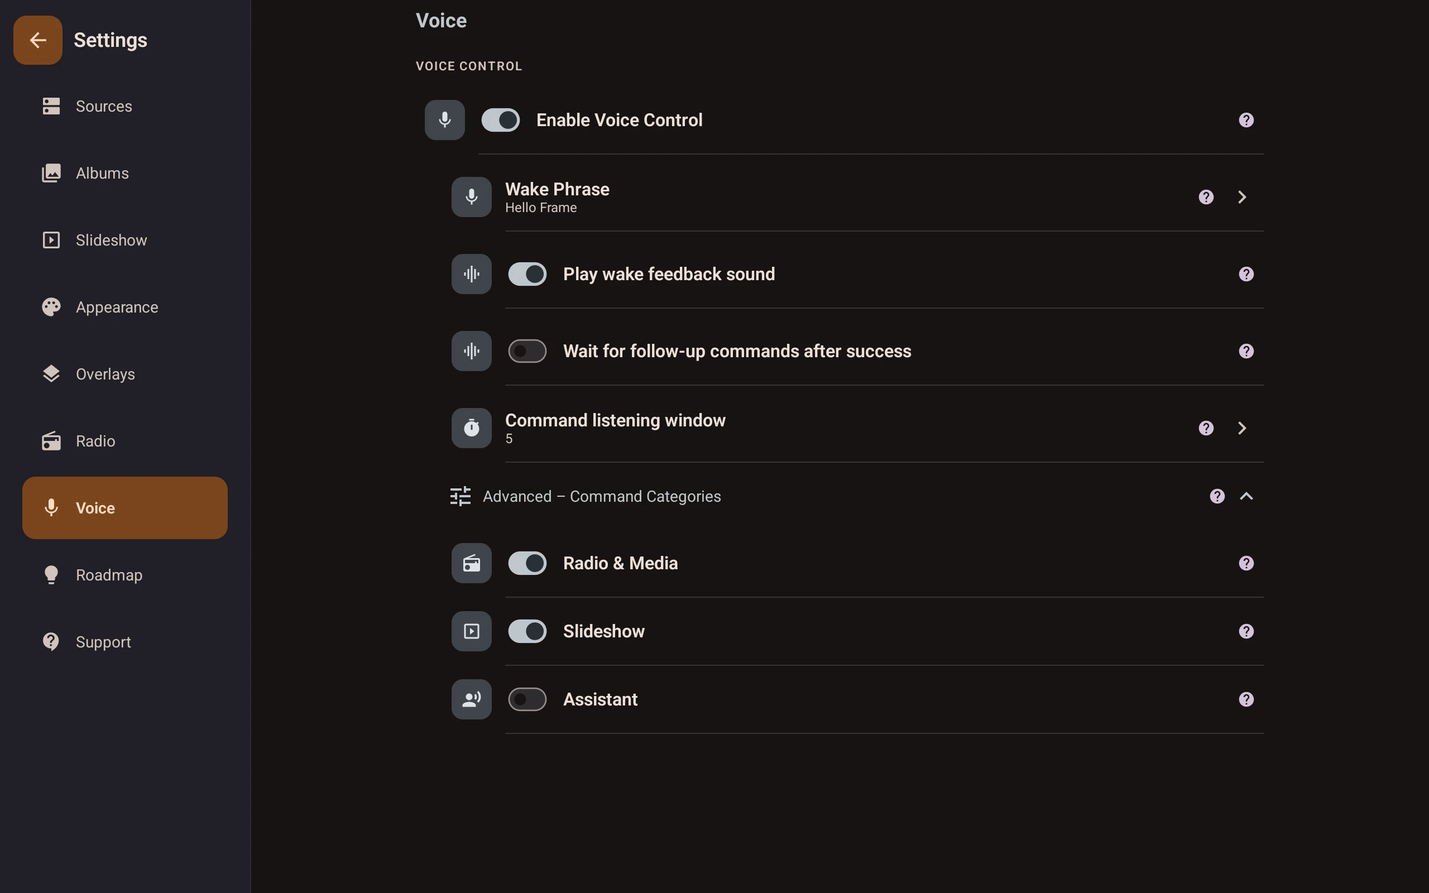
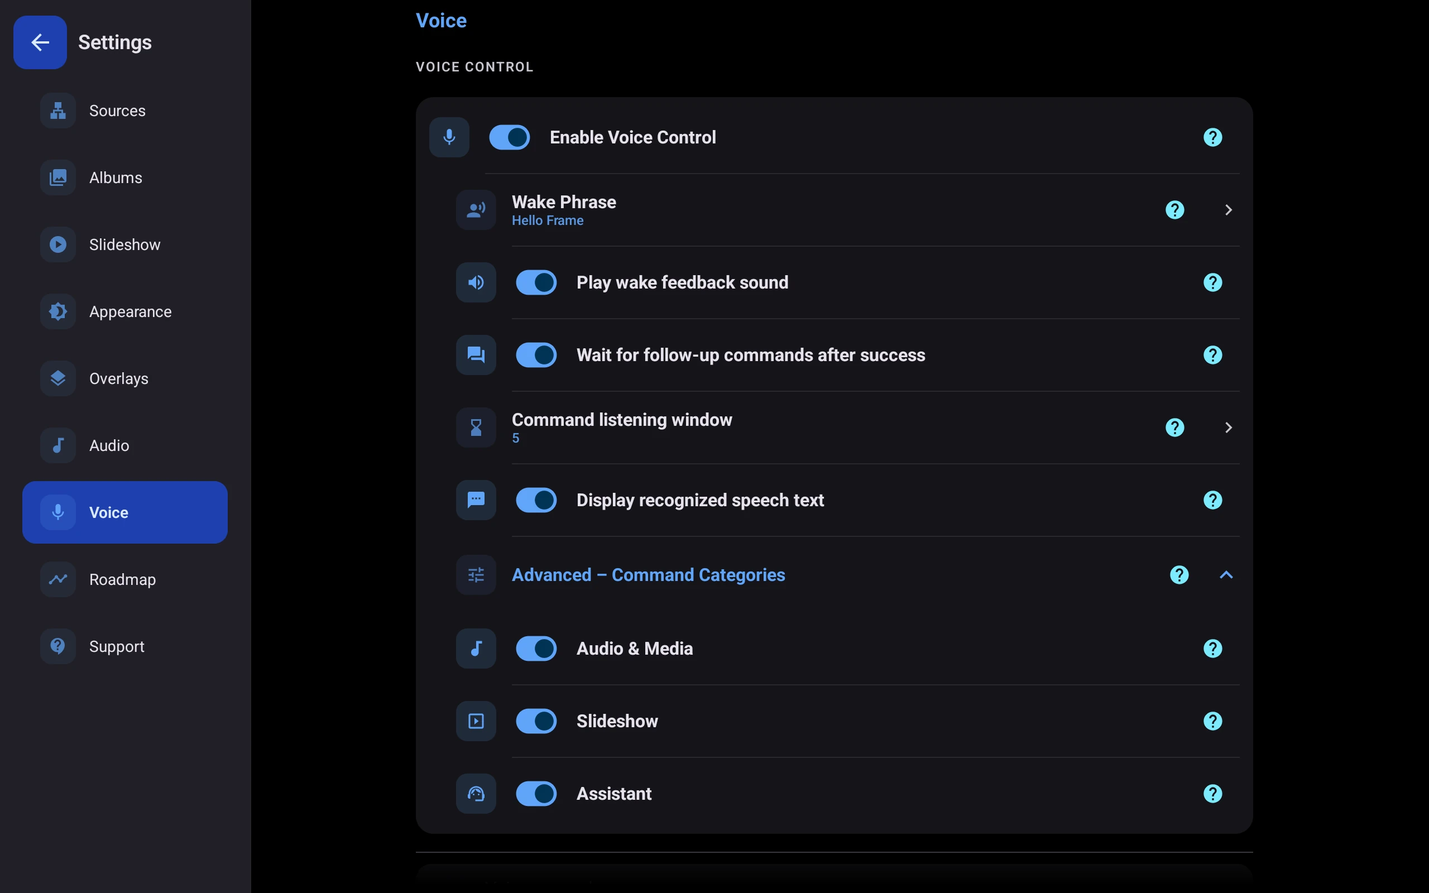
updated images set to match app interface

diff --git a/index.html b/index.html
@@ -2,7 +2,7 @@
 layout: default
 title: "Fravora: Digital Photo Frame App for Android — NAS, Cloud & Radio"
 description: "Smart Android digital photo frame with NAS/SMB, local, and cloud slideshows (Google Photos picked photos, OneDrive, Dropbox, Immich), radio, weather, and voice control. No subscription."
-og_image: "images/screen_frame1.webp"
+og_image: "images/screen_frame_autumn.webp"
 active_nav: "home"
 ---
 
@@ -46,7 +46,7 @@ active_nav: "home"
           "https://play.google.com/store/apps/details?id=com.aniujual.fravora",
           "https://www.amazon.com/dp/B0H45FCGX6"
         ],
-        "image": "https://fravora.app/images/screen_frame1.webp",
+        "image": "https://fravora.app/images/screen_frame_autumn.webp",
         "downloadUrl": "https://play.google.com/store/apps/details?id=com.aniujual.fravora",
         "installUrl": "https://play.google.com/store/apps/details?id=com.aniujual.fravora",
         "offers": {
@@ -231,7 +231,7 @@ active_nav: "home"
   </div>
   <figure class="hero-preview">
     <div class="hero-device">
-      <img src="images/screen_frame1-optimized.webp" alt="Fravora running as an Android photo frame with a Nara, Japan photo, weather, clock, and radio overlays" width="1100" height="687" fetchpriority="high" decoding="async" />
+      <img src="images/screen_frame_autumn.webp" alt="Fravora displaying a Japanese temple framed by red maple leaves with weather, radio, and clock overlays" width="2560" height="1600" fetchpriority="high" decoding="async" />
     </div>
     <figcaption>Photos, weather, and radio. One frame, fully yours.</figcaption>
   </figure>
@@ -349,7 +349,7 @@ active_nav: "home"
     <div class="tv-mockup-wrap">
       <div class="tv-frame">
         <div class="tv-screen">
-          <img id="frameImg" src="images/screen_frame1-optimized.webp" alt="Fravora photo frame showing Nara, Japan with weather, clock, and radio overlays" width="1100" height="687" loading="lazy" decoding="async" />
+          <img id="frameImg" src="images/screen_frame_autumn.webp" alt="Fravora showing a Japanese temple framed by red maple leaves with weather, radio, and clock overlays" width="2560" height="1600" loading="lazy" decoding="async" />
         </div>
       </div>
       <div class="tv-stand"></div>
@@ -389,76 +389,97 @@ active_nav: "home"
   <p class="section-label">Full control</p>
   <h2 class="section-title">Every detail, your way</h2>
 
-  <div class="screenshots-tabs" role="tablist" aria-label="Fravora settings tabs">
-    <button class="tab-btn active" data-tab="radio" role="tab" aria-label="Show radio settings" aria-selected="true">📻 Radio</button>
-    <button class="tab-btn" data-tab="overlays" role="tab" aria-label="Show overlay settings" aria-selected="false">🌤 Overlays</button>
-    <button class="tab-btn" data-tab="layout" role="tab" aria-label="Show overlay layout settings" aria-selected="false">🗂 Overlay Layout</button>
-    <button class="tab-btn" data-tab="slideshow" role="tab" aria-label="Show slideshow settings" aria-selected="false">🖼 Slideshow</button>
-    <button class="tab-btn" data-tab="voice" role="tab" aria-label="Show voice settings" aria-selected="false">🎙 Voice</button>
+  <div class="screenshots-tabs" role="tablist" aria-label="Fravora feature screenshots">
+    <button class="tab-btn active" data-tab="sources" role="tab" aria-label="Show source settings" aria-selected="true">Sources</button>
+    <button class="tab-btn" data-tab="slideshow" role="tab" aria-label="Show slideshow settings" aria-selected="false">Slideshow</button>
+    <button class="tab-btn" data-tab="appearance" role="tab" aria-label="Show appearance settings" aria-selected="false">Appearance</button>
+    <button class="tab-btn" data-tab="overlays" role="tab" aria-label="Show overlay settings" aria-selected="false">Overlays</button>
+    <button class="tab-btn" data-tab="audio" role="tab" aria-label="Show audio settings" aria-selected="false">Audio</button>
+    <button class="tab-btn" data-tab="weather" role="tab" aria-label="Show weather forecast" aria-selected="false">Weather</button>
+    <button class="tab-btn" data-tab="calendar" role="tab" aria-label="Show calendar" aria-selected="false">Calendar</button>
+    <button class="tab-btn" data-tab="voice" role="tab" aria-label="Show voice settings" aria-selected="false">Voice</button>
   </div>
 
   <div class="screenshots-stage">
-
-    <div class="screenshot-panel active" id="tab-radio">
-      <div class="tablet-mockup">
-        <div class="tablet-screen">
-          <img src="images/screen_settings_radio.webp" alt="Fravora Android photo frame app radio settings screen showing station favourites and scheduling" loading="lazy" decoding="async" />
-        </div>
-      </div>
+    <div class="screenshot-panel active" id="tab-sources">
+      <div class="tablet-mockup"><div class="tablet-screen">
+        <img src="images/screen_settings_sources.webp" alt="Fravora Sources settings for SMB shares, local folders, cloud sources, cache, and network retry controls" loading="lazy" decoding="async" />
+      </div></div>
       <div class="screenshot-desc">
-        <h3>Radio & favourites</h3>
-        <p>Save favourite stations, schedule when radio plays each day, and keep music going in the background — all in one place.</p>
-      </div>
-    </div>
-
-    <div class="screenshot-panel" id="tab-overlays">
-      <div class="tablet-mockup">
-        <div class="tablet-screen">
-          <img src="images/screen_settings_overlays.webp" alt="Fravora Android photo frame app overlays settings screen showing time, weather, and photo info toggles" loading="lazy" decoding="async" />
-        </div>
-      </div>
-      <div class="screenshot-desc">
-        <h3>Overlay visibility</h3>
-        <p>Toggle weather, clock, photo metadata, and now-playing info individually. Choose exact sizes for each element.</p>
-      </div>
-    </div>
-
-    <div class="screenshot-panel" id="tab-layout">
-      <div class="tablet-mockup">
-        <div class="tablet-screen">
-          <img src="images/screen_settings_overlays2.webp" alt="Fravora Android photo frame app overlay layout settings showing a 2x2 corner assignment grid" loading="lazy" decoding="async" />
-        </div>
-      </div>
-      <div class="screenshot-desc">
-        <h3>Overlay layout</h3>
-        <p>Assign weather, clock, metadata, and ambient logo across a 2x2 corner grid with collision-safe swaps and optional hide states.</p>
+        <h3>Photo sources</h3>
+        <p>Bring together NAS shares, local folders, and cloud connections, with cache and network recovery controls in one place.</p>
       </div>
     </div>
 
     <div class="screenshot-panel" id="tab-slideshow">
-      <div class="tablet-mockup">
-        <div class="tablet-screen">
-          <img src="images/screen_settings_slideshow.webp" alt="Fravora Android photo frame app slideshow settings showing photo interval, order, transitions, and screen saver options" loading="lazy" decoding="async" />
-        </div>
-      </div>
+      <div class="tablet-mockup"><div class="tablet-screen">
+        <img src="images/screen_settings_slideshow_dashboard.webp" alt="Fravora Slideshow settings for running hours, standby, sync cooldown, and visual styles" loading="lazy" decoding="async" />
+      </div></div>
       <div class="screenshot-desc">
-        <h3>Slideshow & scheduling</h3>
-        <p>Set photo intervals, display mode, transition effects, and running hours with per-day schedules. Set it once and forget it.</p>
+        <h3>Slideshow &amp; schedules</h3>
+        <p>Set running hours and standby behavior, then tune background sync, photo transitions, and image or video backdrops.</p>
+      </div>
+    </div>
+
+    <div class="screenshot-panel" id="tab-appearance">
+      <div class="tablet-mockup"><div class="tablet-screen">
+        <img src="images/screen_settings_appearance.webp" alt="Fravora color scheme selector with seven theme previews in light and dark modes" loading="lazy" decoding="async" />
+      </div></div>
+      <div class="screenshot-desc">
+        <h3>Color schemes</h3>
+        <p>Choose from seven curated palettes and preview each theme in light or dark mode.</p>
+      </div>
+    </div>
+
+    <div class="screenshot-panel" id="tab-overlays">
+      <div class="tablet-mockup"><div class="tablet-screen">
+        <img src="images/screen_settings_overlays_dashboard.webp" alt="Fravora Overlays settings for clock, weather, photo information, layout, and burn-in protection" loading="lazy" decoding="async" />
+      </div></div>
+      <div class="screenshot-desc">
+        <h3>Overlays &amp; placement</h3>
+        <p>Choose which details appear over photos, arrange them around the frame, and enable display protection.</p>
+      </div>
+    </div>
+
+    <div class="screenshot-panel" id="tab-audio">
+      <div class="tablet-mockup"><div class="tablet-screen">
+        <img src="images/screen_settings_audio.webp" alt="Fravora Audio settings with Radio and Music tabs, Bluetooth output, background playback, and autoplay controls" loading="lazy" decoding="async" />
+      </div></div>
+      <div class="screenshot-desc">
+        <h3>Radio &amp; music</h3>
+        <p>Switch between radio and folder-based music, manage Bluetooth output, and configure playback behavior.</p>
+      </div>
+    </div>
+
+    <div class="screenshot-panel" id="tab-weather">
+      <div class="tablet-mockup"><div class="tablet-screen">
+        <img src="images/screen_weather_forecast.webp" alt="Fravora full-screen weather forecast with multiple locations, sunrise and sunset, and the next 24 hours" loading="lazy" decoding="async" />
+      </div></div>
+      <div class="screenshot-desc">
+        <h3>Weather forecast (PRO)</h3>
+        <p>Check current conditions, sunrise and sunset, and the next 24 hours, with saved locations at a glance.</p>
+      </div>
+    </div>
+
+    <div class="screenshot-panel" id="tab-calendar">
+      <div class="tablet-mockup"><div class="tablet-screen">
+        <img src="images/screen_calendar.webp" alt="Fravora calendar with Month, Week, Day, and Agenda views and marked event dates" loading="lazy" decoding="async" />
+      </div></div>
+      <div class="screenshot-desc">
+        <h3>Calendar &amp; reminders (PRO)</h3>
+        <p>Move between Month, Week, Day, and Agenda views, with event dates marked directly on the calendar.</p>
       </div>
     </div>
 
     <div class="screenshot-panel" id="tab-voice">
-      <div class="tablet-mockup">
-        <div class="tablet-screen">
-          <img src="images/screen_settings_voice.webp" alt="Fravora Android photo frame app voice control settings showing wake phrase, command categories, and listening window" loading="lazy" decoding="async" />
-        </div>
-      </div>
+      <div class="tablet-mockup"><div class="tablet-screen">
+        <img src="images/screen_settings_voice.webp" alt="Fravora Voice Control settings showing the wake phrase, follow-up listening, command window, recognized text, and Audio, Slideshow, and Assistant toggles" loading="lazy" decoding="async" />
+      </div></div>
       <div class="screenshot-desc">
-        <h3>Voice control</h3>
-        <p>Wake phrase detection runs on-device; command recognition uses Android speech recognition. Tune the listening window and enable radio, slideshow, or assistant categories.</p>
+        <h3>Voice control (PRO)</h3>
+        <p>Set a wake phrase and listening window, then choose which slideshow, audio, or assistant commands to enable.</p>
       </div>
     </div>
-
   </div>
 </section>
 
@@ -765,6 +786,7 @@ active_nav: "home"
 <script>
   // Frame photo switcher
   const frameImages = [
+    { src: 'images/screen_frame_autumn.webp', alt: 'Fravora photo frame showing a Japanese temple framed by red maple leaves with weather, clock, and radio overlays', caption: 'Koyasan, Japan — red maple leaves, weather, clock, and now-playing radio info' },
     { src: 'images/screen_frame1.webp', alt: 'Fravora photo frame showing Nara, Japan with weather, clock, and radio overlays', caption: 'Nara, Japan — weather overlay, clock, and now-playing radio info all in one glance' },
     { src: 'images/screen_frame2.webp', alt: 'Fravora photo frame showing Nijo Castle garden in Kyoto with radio station and current song overlays', caption: 'Kyoto, Japan — Nijo Castle garden. Radio station and current song shown at the top' },
   ];

diff --git a/blog/synology-nas-photo-frame-android.html b/blog/synology-nas-photo-frame-android.html
@@ -2,12 +2,12 @@
 layout: blog-post
 title: "Synology NAS Digital Photo Frame on Android: Setup Guide"
 description: "Use your Synology NAS as an Android digital photo frame source over SMB. Enable the Samba service in DSM, connect Fravora, pick folders, and run a private offline slideshow."
-og_image: "images/screen_settings_slideshow.webp"
+og_image: "images/screen_settings_slideshow_dashboard.webp"
 active_nav: "blog"
 ---
 
 <script type="application/ld+json">
-  {"@context":"https://schema.org","@type":"BlogPosting","headline":"Synology NAS Digital Photo Frame on Android: Setup Guide","description":"Use your Synology NAS as an Android digital photo frame source over SMB. Enable the Samba service in DSM, connect Fravora, pick folders, and run a private offline slideshow.","image":"https://fravora.app/images/screen_settings_slideshow.webp","author":{"@type":"Person","name":"aniujual"},"publisher":{"@type":"Organization","name":"Fravora: Digital Photo Frame","logo":{"@type":"ImageObject","url":"https://fravora.app/images/fravora.png"}},"datePublished":"2026-08-10","dateModified":"2026-08-10","mainEntityOfPage":"https://fravora.app/blog/synology-nas-photo-frame-android.html"}
+  {"@context":"https://schema.org","@type":"BlogPosting","headline":"Synology NAS Digital Photo Frame on Android: Setup Guide","description":"Use your Synology NAS as an Android digital photo frame source over SMB. Enable the Samba service in DSM, connect Fravora, pick folders, and run a private offline slideshow.","image":"https://fravora.app/images/screen_settings_slideshow_dashboard.webp","author":{"@type":"Person","name":"aniujual"},"publisher":{"@type":"Organization","name":"Fravora: Digital Photo Frame","logo":{"@type":"ImageObject","url":"https://fravora.app/images/fravora.png"}},"datePublished":"2026-08-10","dateModified":"2026-08-10","mainEntityOfPage":"https://fravora.app/blog/synology-nas-photo-frame-android.html"}
 </script>
 <script type="application/ld+json">
   {"@context":"https://schema.org","@type":"BreadcrumbList","itemListElement":[{"@type":"ListItem","position":1,"name":"Home","item":"https://fravora.app/"},{"@type":"ListItem","position":2,"name":"Blog","item":"https://fravora.app/blog/"},{"@type":"ListItem","position":3,"name":"Synology NAS Digital Photo Frame on Android","item":"https://fravora.app/blog/synology-nas-photo-frame-android.html"}]}

diff --git a/blog/digital-photo-frame-calendar.html b/blog/digital-photo-frame-calendar.html
@@ -2,12 +2,12 @@
 layout: blog-post
 title: "Digital Photo Frame with Calendar: Events and Reminders on Android"
 description: "Add a calendar to your Android digital photo frame: tap the clock overlay to open a full-screen monthly calendar with events, recurrence, and reminder alerts shown as a frame glow."
-og_image: "images/screen_settings_overlays.webp"
+og_image: "images/screen_calendar.webp"
 active_nav: "blog"
 ---
 
 <script type="application/ld+json">
-  {"@context":"https://schema.org","@type":"BlogPosting","headline":"Digital Photo Frame with Calendar: Events and Reminders on Android","description":"Add a calendar to your Android digital photo frame: tap the clock overlay to open a full-screen monthly calendar with events, recurrence, and reminder alerts shown as a frame glow.","image":"https://fravora.app/images/screen_settings_overlays.webp","author":{"@type":"Person","name":"aniujual"},"publisher":{"@type":"Organization","name":"Fravora: Digital Photo Frame","logo":{"@type":"ImageObject","url":"https://fravora.app/images/fravora.png"}},"datePublished":"2026-08-10","dateModified":"2026-08-10","mainEntityOfPage":"https://fravora.app/blog/digital-photo-frame-calendar.html"}
+  {"@context":"https://schema.org","@type":"BlogPosting","headline":"Digital Photo Frame with Calendar: Events and Reminders on Android","description":"Add a calendar to your Android digital photo frame: tap the clock overlay to open a full-screen monthly calendar with events, recurrence, and reminder alerts shown as a frame glow.","image":"https://fravora.app/images/screen_calendar.webp","author":{"@type":"Person","name":"aniujual"},"publisher":{"@type":"Organization","name":"Fravora: Digital Photo Frame","logo":{"@type":"ImageObject","url":"https://fravora.app/images/fravora.png"}},"datePublished":"2026-08-10","dateModified":"2026-08-10","mainEntityOfPage":"https://fravora.app/blog/digital-photo-frame-calendar.html"}
 </script>
 <script type="application/ld+json">
   {"@context":"https://schema.org","@type":"BreadcrumbList","itemListElement":[{"@type":"ListItem","position":1,"name":"Home","item":"https://fravora.app/"},{"@type":"ListItem","position":2,"name":"Blog","item":"https://fravora.app/blog/"},{"@type":"ListItem","position":3,"name":"Digital Photo Frame with Calendar","item":"https://fravora.app/blog/digital-photo-frame-calendar.html"}]}

diff --git a/blog/digital-photo-frame-internet-radio.html b/blog/digital-photo-frame-internet-radio.html
@@ -2,7 +2,7 @@
 layout: blog-post
 title: "Digital Photo Frame with Internet Radio: Setup and Features"
 description: "Play internet radio on your Android digital photo frame while photos display. Search stations, show now-playing overlays, schedule audio hours, and keep music running in the background."
-og_image: "images/screen_settings_overlays.webp"
+og_image: "images/screen_settings_audio.webp"
 active_nav: "blog"
 ---
 
@@ -12,7 +12,7 @@ active_nav: "blog"
     "@type": "BlogPosting",
     "headline": "Digital Photo Frame with Internet Radio: Setup and Features",
     "description": "Play internet radio on your Android digital photo frame while photos display. Search stations, show now-playing overlays, schedule audio hours, and keep music running in the background.",
-    "image": "https://fravora.app/images/screen_settings_overlays.webp",
+    "image": "https://fravora.app/images/screen_settings_audio.webp",
     "author": { "@type": "Person", "name": "aniujual" },
     "publisher": { "@type": "Organization", "name": "Fravora: Digital Photo Frame", "logo": { "@type": "ImageObject", "url": "https://fravora.app/images/fravora.png" } },
     "datePublished": "2026-08-10",

diff --git a/blog/google-photos-slideshow-vs-photo-frame-app.html b/blog/google-photos-slideshow-vs-photo-frame-app.html
@@ -2,7 +2,7 @@
 layout: blog-post
 title: "Google Photos Slideshow vs Dedicated Photo Frame App: What's the Difference?"
 description: "Google Photos slideshow vs a dedicated Android photo frame app: compare scheduling, NAS support, overlays, offline playback, and long-running reliability for always-on displays."
-og_image: "images/screen_settings_overlays.webp"
+og_image: "images/screen_settings_sources.webp"
 active_nav: "blog"
 ---
 
@@ -12,7 +12,7 @@ active_nav: "blog"
     "@type": "BlogPosting",
     "headline": "Google Photos Slideshow vs Dedicated Photo Frame App: What's the Difference?",
     "description": "Google Photos slideshow vs a dedicated Android photo frame app: compare scheduling, NAS support, overlays, offline playback, and long-running reliability.",
-    "image": "https://fravora.app/images/screen_settings_overlays.webp",
+    "image": "https://fravora.app/images/screen_settings_sources.webp",
     "author": { "@type": "Person", "name": "aniujual" },
     "publisher": { "@type": "Organization", "name": "Fravora: Digital Photo Frame", "logo": { "@type": "ImageObject", "url": "https://fravora.app/images/fravora.png" } },
     "datePublished": "2026-08-09",

diff --git a/blog/nas-smb-photo-frame-android.html b/blog/nas-smb-photo-frame-android.html
@@ -2,7 +2,7 @@
 layout: blog-post
 title: "NAS and SMB Photo Frame on Android: Complete Setup Guide"
 description: "Use your NAS or home network share as an Android digital photo frame source. Setup guide for SMB connections, folder selection, outage recovery, and offline slideshow playback."
-og_image: "images/screen_settings_slideshow.webp"
+og_image: "images/screen_settings_slideshow_dashboard.webp"
 active_nav: "blog"
 ---
 
@@ -12,7 +12,7 @@ active_nav: "blog"
     "@type": "BlogPosting",
     "headline": "NAS and SMB Photo Frame on Android: Complete Setup Guide",
     "description": "Use your NAS or home network share as an Android digital photo frame source. Setup guide for SMB connections, folder selection, outage recovery, and offline slideshow playback.",
-    "image": "https://fravora.app/images/screen_settings_slideshow.webp",
+    "image": "https://fravora.app/images/screen_settings_slideshow_dashboard.webp",
     "author": {
       "@type": "Person",
       "name": "aniujual"

diff --git a/blog/digital-photo-frame-weather-overlay.html b/blog/digital-photo-frame-weather-overlay.html
@@ -2,7 +2,7 @@
 layout: blog-post
 title: "How to Add Weather to a Digital Photo Frame on Android"
 description: "Add a live weather overlay to your Android digital photo frame: current temperature, conditions, hourly and 7-day forecasts, and how to position it alongside your photos."
-og_image: "images/screen_settings_overlays.webp"
+og_image: "images/screen_weather_forecast.webp"
 active_nav: "blog"
 ---
 
@@ -12,7 +12,7 @@ active_nav: "blog"
     "@type": "BlogPosting",
     "headline": "How to Add Weather to a Digital Photo Frame on Android",
     "description": "Add a live weather overlay to your Android digital photo frame: current temperature, conditions, hourly and 7-day forecasts, and how to position it alongside your photos.",
-    "image": "https://fravora.app/images/screen_settings_overlays.webp",
+    "image": "https://fravora.app/images/screen_weather_forecast.webp",
     "author": { "@type": "Person", "name": "aniujual" },
     "publisher": {
       "@type": "Organization",

diff --git a/blog/photo-frame-apps-compared-2026.html b/blog/photo-frame-apps-compared-2026.html
@@ -2,7 +2,7 @@
 layout: blog-post
 title: "Best Digital Photo Frame Apps Compared in 2026 | Fravora Blog"
 description: "Compare digital photo frame apps in 2026 using practical criteria: offline support, Google Photos and NAS options, no-subscription value, voice control, and reliability."
-og_image: "images/screen_settings_overlays.webp"
+og_image: "images/screen_frame_autumn.webp"
 active_nav: "blog"
 ---
 
@@ -12,7 +12,7 @@ active_nav: "blog"
     "@type": "BlogPosting",
     "headline": "Digital Photo Frame Apps Compared: 2026 Guide",
     "description": "Compare digital photo frame apps in 2026 using practical criteria: offline support, Google Photos and NAS options, no-subscription value, voice control, and reliability.",
-    "image": "https://fravora.app/images/screen_settings_overlays.webp",
+    "image": "https://fravora.app/images/screen_frame_autumn.webp",
     "author": {
       "@type": "Person",
       "name": "aniujual"

diff --git a/blog/nas-music-frame-android.html b/blog/nas-music-frame-android.html
@@ -2,7 +2,7 @@
 layout: blog-post
 title: "Build a High-Performance Music Frame with NAS & Android | Fravora Blog"
 description: "Learn how to build a music frame from Synology or QNAP NAS to an Android device using SMB, folder-based playlists, and Fravora's music library tools."
-og_image: "images/screen_settings_radio.webp"
+og_image: "images/screen_settings_audio.webp"
 active_nav: "blog"
 ---
 
@@ -12,7 +12,7 @@ active_nav: "blog"
     "@type": "BlogPosting",
     "headline": "Build a High-Performance Music Frame with NAS & Android",
     "description": "Learn how to build a music frame from Synology or QNAP NAS to an Android device using SMB, folder-based playlists, and Fravora's music library tools.",
-    "image": "https://fravora.app/images/screen_settings_radio.webp",
+    "image": "https://fravora.app/images/screen_settings_audio.webp",
     "author": {
       "@type": "Person",
       "name": "aniujual"

diff --git a/blog/fire-tablet-smart-calendar.html b/blog/fire-tablet-smart-calendar.html
@@ -2,7 +2,7 @@
 layout: blog-post
 title: "Repurposing Fire Tablets as Smart Home Calendars | Fravora Blog"
 description: "Turn your Amazon Fire tablet into an always-on smart home calendar and photo frame with Fravora. Support for events, recurrence, and reminder alerts."
-og_image: "images/screen_settings_overlays.webp"
+og_image: "images/screen_calendar.webp"
 active_nav: "blog"
 ---
 
@@ -12,7 +12,7 @@ active_nav: "blog"
     "@type": "BlogPosting",
     "headline": "Repurposing Fire Tablets as Smart Home Calendars",
     "description": "Turn your Amazon Fire tablet into an always-on smart home calendar and photo frame with Fravora. Support for events, recurrence, and reminder alerts.",
-    "image": "https://fravora.app/images/screen_settings_overlays.webp",
+    "image": "https://fravora.app/images/screen_calendar.webp",
     "author": {
       "@type": "Person",
       "name": "aniujual"

diff --git a/css/global.css b/css/global.css
@@ -286,10 +286,10 @@ nav {
   background: #000;
   border-radius: 10px;
   overflow: hidden;
-  aspect-ratio: 16 / 9;
+  aspect-ratio: 16 / 10;
   position: relative;
 }
-.tv-screen img { width: 100%; height: 100%; object-fit: cover; transition: opacity 0.4s ease; }
+.tv-screen img { width: 100%; height: 100%; object-fit: contain; transition: opacity 0.4s ease; }
 .tv-stand {
   width: 100px; height: 40px; background: #111; margin: -2px auto 0;
   clip-path: polygon(20% 0%, 80% 0%, 100% 100%, 0% 100%);

diff --git a/features.html b/features.html
@@ -2,7 +2,7 @@
 layout: default
 title: "Fravora: Digital Photo Frame Features | Sources, Overlays, Audio, Voice"
 description: "Explore Fravora: Digital Photo Frame features for Android: local folders, SMB/NAS, Google Photos picked photos, cloud connections, overlays, audio, scheduling, and voice control."
-og_image: "images/screen_settings_overlays.webp"
+og_image: "images/screen_settings_overlays_dashboard.webp"
 active_nav: "features"
 ---
 
